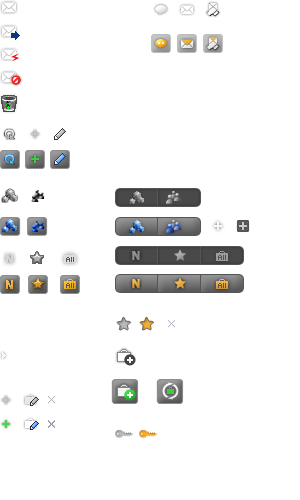
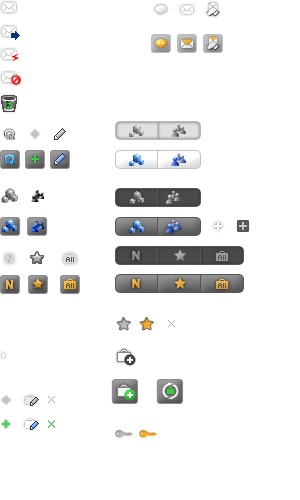
파일B_목록.html

Changed region(s): [[0.36, 0.24, 0.69, 0.36], [0.36, 0.3, 0.39, 0.33]]

diff --git a/WebContent/html/나의공간_파일B_목록.html b/WebContent/html/나의공간_파일B_목록.html
@@ -1,0 +1,128 @@
+<!DOCTYPE html PUBLIC "-//W3C//DTD XHTML 1.0 Transitional//EN" "http://www.w3.org/TR/xhtml1/DTD/xhtml1-transitional.dtd">
+<html xmlns="http://www.w3.org/1999/xhtml">
+<head>
+<meta http-equiv="Content-Type" content="text/html; charset=utf-8" />
+<title>Untitled Document</title>
+</head>
+<link href="../css/default.css" type="text/css" rel="stylesheet" />
+</link>
+<link href="../css/layout.css" type="text/css" rel="stylesheet" />
+</link>
+<link href="../css/detail.css" type="text/css" rel="stylesheet" />
+</link>
+<link href="../css/form.css" type="text/css" rel="stylesheet" />
+</link>
+<link href="../css/pop.css" type="text/css" rel="stylesheet" />
+</link>
+<body>
+<div id="content">
+  <!-- 컨텐츠 레이아웃-->
+  <div class="section_portlet">
+    <div class="portlet_t">
+      <div class="portlet_tl"></div>
+    </div>
+    <div class="portlet_l" style="display: block;">
+      <ul class="portlet_r" style="display: block;">
+       
+        <!-- 컨텐츠 -->
+        <div class="contents_space">
+        
+         <!-- 타이틀 -->
+        <div class="body_titl p0">
+          <div class="title myspace_h" style=" height:auto"> 프로젝트 수행팀 <span class="bul_space"> maninsoft</span> </div>
+          <!-- 검색 -->
+          <div class="float_right" style="padding:5px 0 4px 0">
+            <div class="srch_wh">
+              <input id="" class="nav_input" type="text" href="" placeholder="파일 찾기" title="">
+              <button onclick="" title="검색"></button>
+            </div>
+          </div>
+          <!-- 검색 //-->
+
+        </div>
+        <!-- 타이틀 -->
+        
+          <!-- 공간별 -->
+          <div class="list_contents">
+            <div id="iwork_instance_list_page">
+                <table>
+                <tr class="tit_bg">
+                    <th class="r_line" width="215">필 터</th>
+                    <th class="r_line">제 목</th>
+                    <th class="r_line">파일명/확장자</th>
+                    <th class="r_line">부서명</th>
+                    <th class="r_line">등록자/등록일</th>
+                </tr>
+                <tr>
+                    <td>
+                    <div class="margin_t2">
+                    <!-- 필 터 -->
+                    <div class="float_left">
+                    <select name="">
+                    	<option>폴더별</option>
+                        <option>공간별</option>
+                        <option>업무별</option>
+                        <option>등록자별</option>
+                        <option>확장자별</option>
+                        <option>등록일별</option>
+                    </select>
+                    </div>
+                    <!-- 필 터 //-->
+                    <!-- 우측 구분 -->
+                    	<div class="categ_link m0p0">
+                            <a title="나의그룹" href="">
+                                <span class="btn_b_my_group"></span>
+                            </a>
+                            <a class="" title="나의부서" href="">
+                            	<span class="btn_b_my_depart current"></span>
+                            </a>
+                        </div>
+                    <!-- 우측 구분 //-->
+                    </div>
+                    <!-- 카테고리 -->
+                    	<div class="pop_list_area ">
+                            <form class="js_comlist_by_depart_page">
+                                <ul>
+                                    <li class="js_drill_down">
+                                    <span class="dep">
+                                    	<a class="js_popup" departmentid="CEO" href="comlist_by_depart.sw">
+                                            <span class="icon_depart"></span>
+                                            <span>대표이사</span>
+                                        </a>
+                                    </span>
+                                    <div class="menu_2dep js_drill_down_target" style="display: none"></div>
+                                    </li>
+                                    <li class="js_drill_down">
+                                    <li class="js_drill_down">
+                                </ul>
+                            </form>
+                        </div>
+                    <!-- 카테고리 //-->
+                    </td>
+                    <td>스마트웍스V3.0 마케팅기획 전략</td>
+                    <td>yyy.ppt</td>
+                    <td>maninsoft</td>
+                    <td>
+                    	<div class="noti_pic">
+                        	<img class="profile_size_s" title="상무보 배선빈" src="../images/no_user_picture_min.jpg">
+                        </div>
+                        <div class="noti_in">
+                        	<span class="t_name">상무보 배선빈</span>
+                        	<div class="t_date">2011.09.30 23:44</div>
+                        </div>
+                    </td>
+                </tr>
+                </table>
+                </div>
+            </div>
+          <!-- 공간별 //-->
+        </div>
+        <!-- 컨텐츠 //-->
+      </ul>
+    </div>
+    <div class="portlet_b" style="display: block;"></div>
+  </div>
+  <!-- 컨텐츠 레이아웃//-->
+</div>
+</body>
+</html>

diff --git a/WebContent/css/layout.css b/WebContent/css/layout.css
@@ -215,6 +215,15 @@ a .btn_my_group:hover,
  margin: 2px 5px 0 0;} 
  a .btn_my_group_add:hover {background: url("../images/nav_img.png") no-repeat -237px -219px ;} 
  
+ /* Community Btn in Body */ 
+.btn_b_my_depart {background: url("../images/nav_img.png") no-repeat -115px -121px transparent; height:20px; width:43px; display: inline-block; float:right;}
+a .btn_b_my_depart:hover,
+.btn_b_my_depart.current {background: url("../images/nav_img.png") no-repeat -115px -150px;}
+
+.btn_b_my_group {background: url("../images/nav_img.png") no-repeat -158px -121px transparent; height:20px; width:43px; display: inline-block; float:right;} 
+a .btn_b_my_group:hover,
+.btn_b_my_group.current {background: url("../images/nav_img.png") no-repeat -158px -150px;}
+ 
 /* Nav Works Btn */
 .btn_recent {background: url("../images/nav_img.png") no-repeat -115px -246px transparent; height:20px; width:43px; display: inline-block; float:right;}
 a .btn_recent:hover,
@@ -578,7 +587,7 @@ li.fvrt_item:hover .checkOption {display:block}
 
 .noti_pic {float:left; margin-right: 5px;}
 .noti_in_bodytitle {word-wrap: break-word; text-align:left; vertical-align:middle; float:left; line-height:16px; width:65%} /* Body Title로 들어갈 때 */
-.noti_in { margin-left:35px; line-height: 16px;}
+.noti_in { margin-left:25px; line-height: 16px;}
 .noti_in_s { margin-left:25px; line-height: 16px;}
 .noti_in_m {word-wrap: break-word; text-align:left; padding:2px 0 0 58px;} /* M사이즈 등록글 사용시*/
 .noti_in_file {word-wrap: break-word; text-align:left; padding:0 0 0 44px; line-height: 16px;} /* Right Contents in Space - file */

diff --git a/WebContent/css/default.css b/WebContent/css/default.css
@@ -94,7 +94,7 @@ kbd, samp, code {
 img, button, select, textarea {
      vertical-align: middle;
 }
-textarea {width:99%}
+textarea { width:99%}
 input[type="image"], input[type="text"], input[type="submit"], input[type="password"], textarea {resize: none;}
 	
 input {border:0 none; outline:medium none; vertical-align: middle;}
@@ -157,6 +157,7 @@ mark, rp, rt, ruby, summary, time {
 .space_l5 {margin-left:5px !important}
 .space_l10 {margin-left:10px !important}
 
+.m0p0 {padding:0px !important; margin:0px !important}
 .padding0, .p0 {padding:0px !important}
 .padding_l5 {padding-left:5px !important}
 .padding_l20 {padding-left:20px !important}
